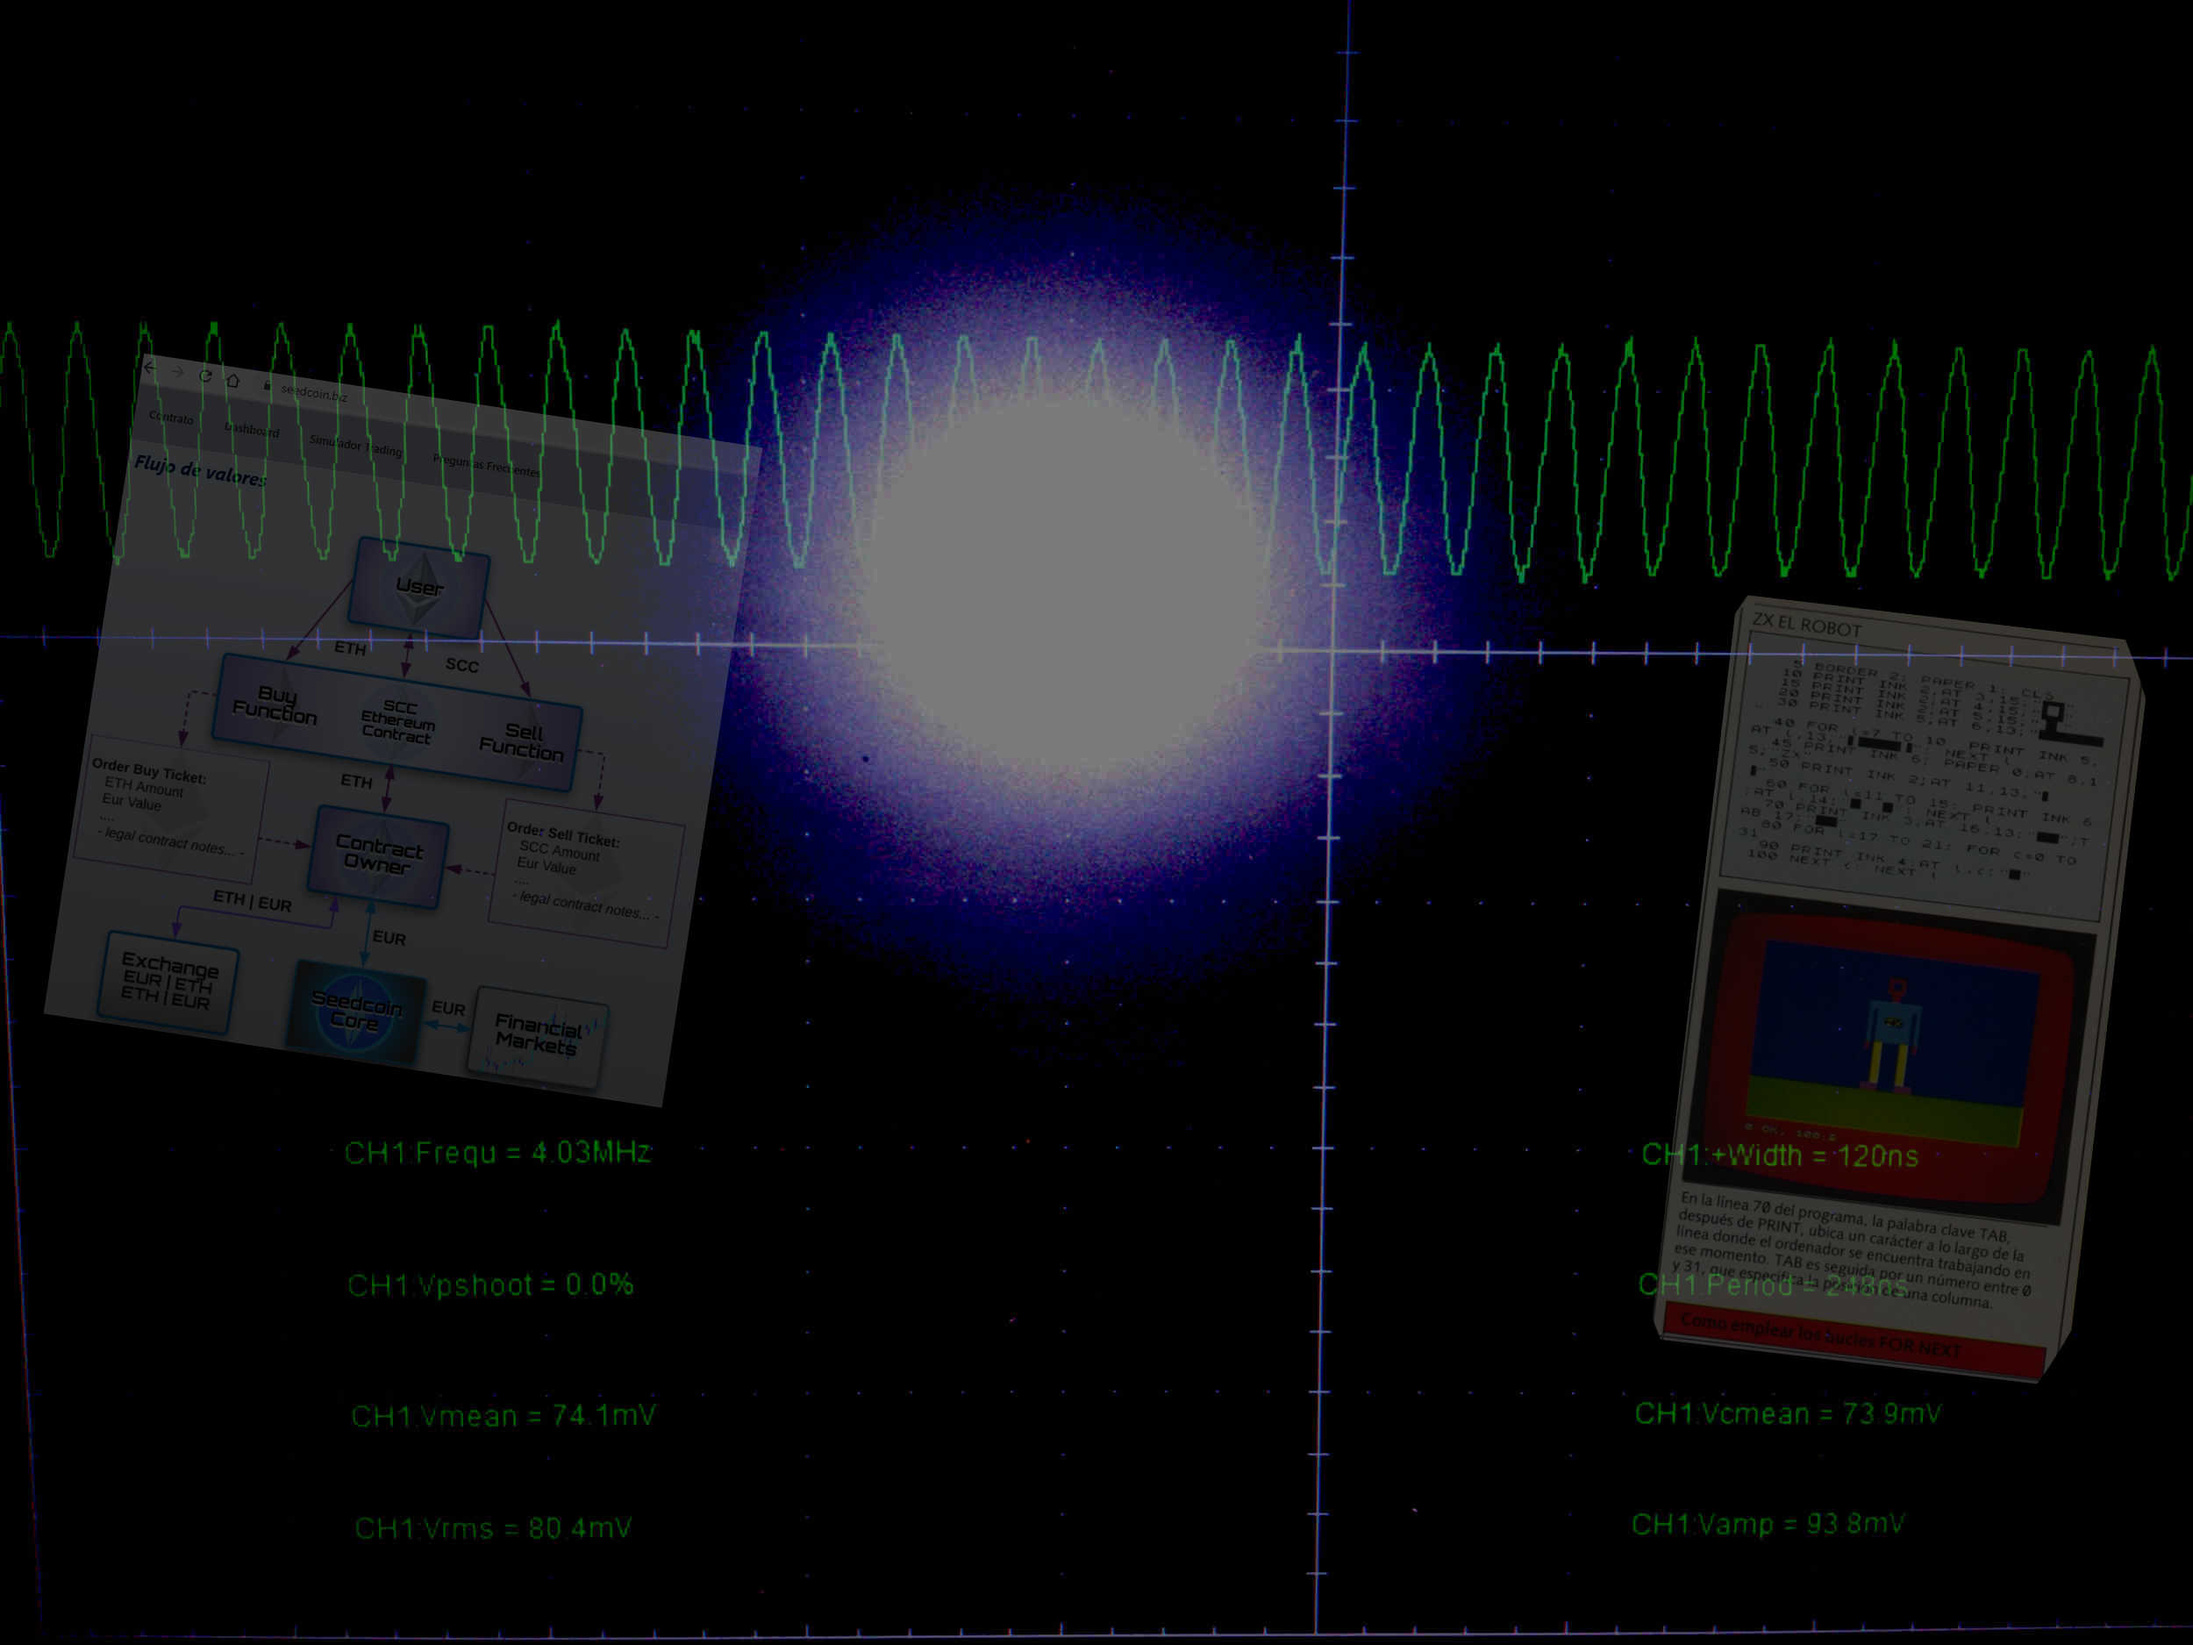
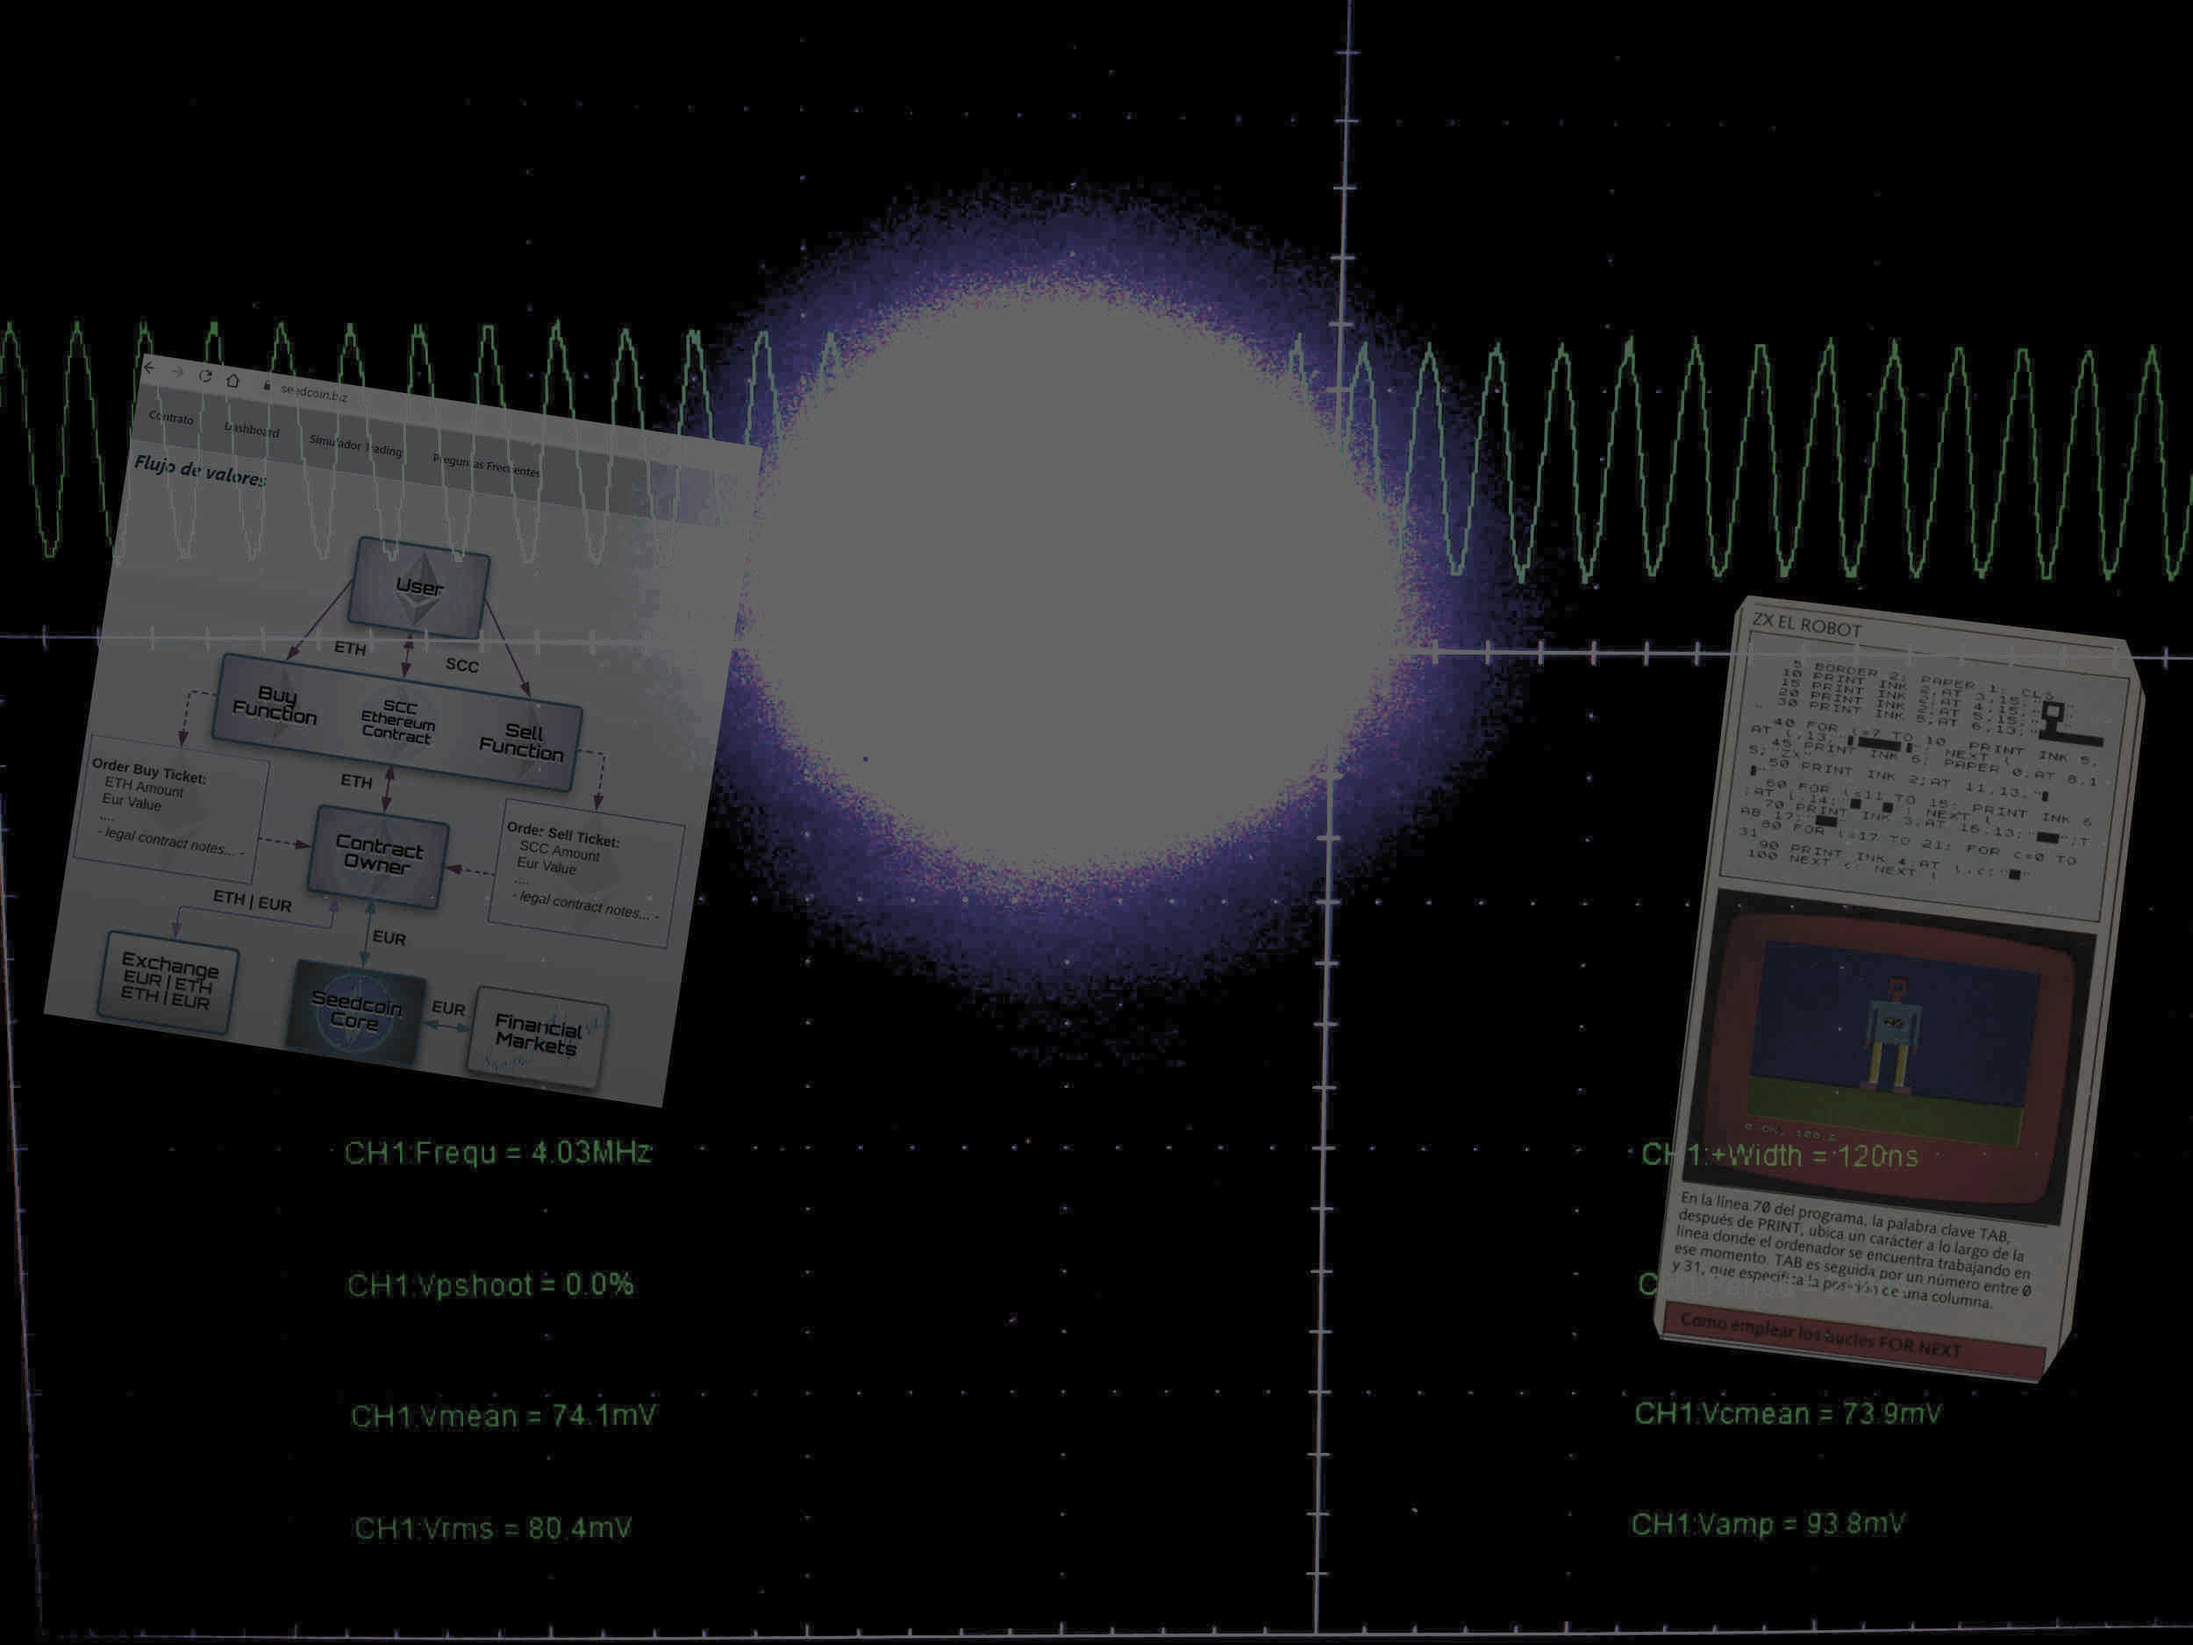
update style

diff --git a/src/app/components/about.jsx b/src/app/components/about.jsx
@@ -24,7 +24,7 @@ export default function About() {
 
                     <section className={styleAbout.container} >
 
-                        <h2>¡Hola! Soy Daniel Orcha, desarrollador de software, con experiencia en Web Full Stack, creación de prototipos electrónicos y sistemas automatizados.</h2>
+                        <h2>¡Hola! Soy Daniel Orcha, desarrollador de software, prototipos electrónicos y sistemas automatizados.</h2>
 
   
                             <Image
@@ -35,18 +35,18 @@ export default function About() {
                                 height={130}
                             /> 
                         <p>
-                            Titulado como Técnico Especialista en Electricidad y Electrónica (FPII), con postgrado en Automatización Industrial (UCAV), mi interés por la tecnología despertó desde muy pequeño,
-                            cuando comencé a explorar la programación en un ZX Spectrum, copiando y modificando ejemplos de códigos que venían en el manual.
+                            Titulado como Técnico Especialista en Electricidad y Electrónica (FPII), con Postgrado en Automatización Industrial (UCAV), mi interés por la tecnología despertó desde muy pequeño,
+                            cuando comencé a explorar la programación en un ZX Spectrum, copiando y modificando ejemplos de códigos del manual.
                         </p>
                         <p>
                             A lo largo de mi carrera, he trabajado en proyectos personales y como freelance, abarcando áreas como el desarrollo web full-stack, diseño de prototipos electrónicos,
-                            sistemas automatizados, desarrollo de videojuegos, cuentas de trading automáticas (robots forex) y el tokenizado mediante Smart Contracts Ethereum. También he
-                            desarrollado algunas aplicaciones de Inteligencia Artificial para cálculos de proceso y de reconocimiento de imágenes. Puedo
-                            adaptarme fácilmente a diferentes tipos de tecnologías y lenguajes de programación.
+                            sistemas automatizados, desarrollo de videojuegos, cuentas de trading automáticas (mt4) y el tokenizado mediante Smart Contracts Ethereum. También he
+                            desarrollado algunas aplicaciones de escritorio para Windows y de Inteligencia Artificial para cálculos de proceso y de reconocimiento de imágenes. Me adapto fácilmente a diferentes 
+                            tipos de tecnologías y lenguajes de programación.
                         </p>
                         <p>
                             Profesionalmente, me desempeño como Operador de Control en una Planta Termosolar, donde también aplico mis habilidades de programación en mejoras de lógica, diseño de pantallas PI
-                            y gestión de la base de datos (PI Points). Además, he desarrollado herramientas como libros Excel para seguimiento de equipos con grandes volúmenes de datos, reportes automáticos
+                            y gestión de bases de datos (PI Points). Además, he desarrollado herramientas como libros Excel para seguimiento de equipos con grandes volúmenes de datos, reportes automáticos
                             y aplicaciones web cliente-servidor para digitalización de informes y recopilación de datos de campo.
                         </p>
                         <p>

diff --git a/src/app/globals.css b/src/app/globals.css
@@ -16,7 +16,7 @@
 
 body {
   background-color: black;
-  background-image: url('/resources/DSC_1776.jpg');
+  background-image: url('/resources/DSC_1776x.jpg');
   background-color: black;  
   background-size: cover;  
   background-position: center;  

diff --git a/src/styles/animations.css b/src/styles/animations.css
@@ -8,7 +8,7 @@
 
 .lineAnim {
     position: absolute;
-    animation: lineAnimation 20s linear infinite;  
+    animation: lineAnimation 60s linear infinite;  
     border-radius: 20px;
 }
 

diff --git a/src/styles/proyectsDisplay.module.css b/src/styles/proyectsDisplay.module.css
@@ -10,8 +10,7 @@
     margin: 0;
 }
 
-.container {
-    background-color: #d3d3d3;
+.container { 
     padding: 10px;
     padding-top: 1px;
     margin-top: 15px;

diff --git a/src/styles/about.module.css b/src/styles/about.module.css
@@ -11,8 +11,7 @@
 }
 
 
-.container {
-  background-color: #d3d3d3;
+.container { 
   padding: 10px;
   padding-top: 1px;
   margin-top: 15px;
